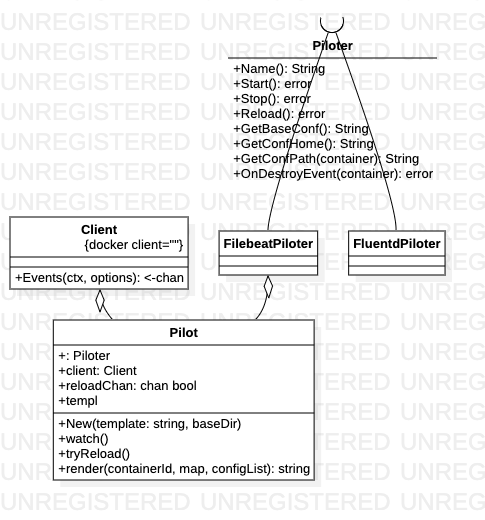
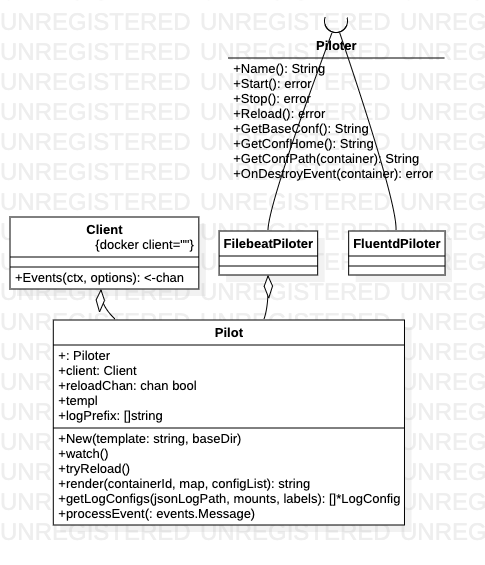
[fix]

Changed region(s): [[0.0, 0.0308, 0.9278, 0.9538]]

diff --git a/_posts/Technology/Container/2019-03-07-container_log_collect.md b/_posts/Technology/Container/2019-03-07-container_log_collect.md
@@ -105,6 +105,11 @@ log-pilot
 
 ![](/public/upload/container/log_pilot_object.png)
 
+pilot 和 piloter 有着明确的分工
+
+1. pilot 负责解析解析、监听容器事件、根据piloter 对应的tpl 文件创建 容器实例对应的yml 文件，start/reload piloter
+2. piloter 相对简单一些，就是根据 配置文件采集 log发往存储后端
+
 启动过程
 
 ![](/public/upload/container/log_pilot_sequence.png)
@@ -136,6 +141,19 @@ func (p *Pilot) watch() error {
 ```
 
 ### 为每一个容器生成filebeat yml文件
+
+Log-Pilot 支持声明式日志配置，可以依据容器的 Label 或者 ENV 来动态地生成日志采集配置文件
+
+1. PILOT_LOG_PREFIX  指定了Label和ENV 集合中 跟 log 相关的前缀。假设 PILOT_LOG_PREFIX=log
+2. 标签 log.$name=$path 
+3. 环境变量 log_$name=$path 
+
+name 和 path的含义
+
+1. name：我们自定义的一个字符串，它在不同的场景下指代不同的含义。当我们将日志采集到 ElasticSearch 的时候， name 表示的是 Index；当我们将日志采集到 Kafka 的时候， name 表示的是 Topic；当我们将日志采集到阿里云日志服务的时候，name 表示的是 LogstoreName。
+2. path：它本身支持两种，
+    1. 一种是约定关键字 stdout，表示的是采集容器的标准输出日志，比如我们要采集 tomcat 容器日志，那么我们通过配置标签 `log.catalina=stdout` 来采集 tomcat 标准输出日志
+    2. 第二种是容器内部的具体文件日志路径，可以支持通配符的方式。通过配置标签 `log.access=/usr/local/tomcat/logs/*.log` 来采集 tomcat 容器内部文件日志。
 
 filebeat.tpl 内容
 
@@ -182,13 +200,13 @@ Pilot.processEvent ==> Pilot.newContainer ==> Pilot.render ==> WriteFile
   fields_under_root: true
   docker-json: true
   fields:
-      app_name: business-vip-present-rpc-service
+      app_name: $APP_NAME
       index: stdout
       topic: stdout
-      docker_container: k8s_business-vip-present-rpc-service_business-business-vip-present-rpc-service-stable-5c65b549bw8558_default_3f53634c-7f34-4148-821b-83b0f4b4d154_0
-      k8s_container_name: business-vip-present-rpc-service
+      docker_container: k8s_$APP_NAME_$POD_NAME_default_3f53634c-7f34-4148-821b-83b0f4b4d154_0
+      k8s_container_name: $APP_NAME
       k8s_node_name: 192.168.60.96
-      k8s_pod: business-business-vip-present-rpc-service-stable-5c65b549bw8558
+      k8s_pod: $POD_NAME
       k8s_pod_namespace: default
   tail_files: false
   close_inactive: 2h
@@ -203,13 +221,13 @@ Pilot.processEvent ==> Pilot.newContainer ==> Pilot.render ==> WriteFile
   scan_frequency: 10s
   fields_under_root: true
   fields:
-      app_name: business-vip-present-rpc-service
+      app_name: $APP_NAME
       index: tomcat
       topic: tomcat
-      docker_container: k8s_business-vip-present-rpc-service_business-business-vip-present-rpc-service-stable-5c65b549bw8558_default_3f53634c-7f34-4148-821b-83b0f4b4d154_0
-      k8s_container_name: business-vip-present-rpc-service
+      docker_container: k8s_$APP_NAME_$POD_NAME_default_3f53634c-7f34-4148-821b-83b0f4b4d154_0
+      k8s_container_name: $APP_NAME
       k8s_node_name: 192.168.60.96
-      k8s_pod: business-business-vip-present-rpc-service-stable-5c65b549bw8558
+      k8s_pod: $POD_NAME
       k8s_pod_namespace: default
 
   tail_files: false

diff --git a/_posts/Technology/Kubernetes/2015-03-12-kubernetes_volume.md b/_posts/Technology/Kubernetes/2015-03-12-kubernetes_volume.md
@@ -133,6 +133,8 @@ spec:
       secretName: secret-config
 ```
 
+[Types of Volumes](https://kubernetes.io/docs/concepts/storage/volumes/#types-of-volumes) 支持十几种类型的Volume
+
 1. Volume 与pod 声明周期相同，不是 Kubernetes 对象，主要用于跨节点或者容器对数据进行同步和共享。 EmptyDir、HostPath、ConfigMap 和 Secret
 2. PersistentVolume，为集群中资源的一种，它与集群中的节点 Node 有些相似，PV 为 Kubernete 集群提供了一个如何提供并且使用存储的抽象，与它一起被引入的另一个对象就是 PersistentVolumeClaim(PVC)，这两个对象之间的关系与Node和 Pod 之间的关系差不多。**PVC 消耗了持久卷资源**，而 Pod 消耗了节点上的 CPU 和内存等物理资源。PS：当 Kubernetes 创建一个节点时，它其实仅仅创建了一个对象来代表这个节点，并基于 metadata.name 字段执行健康检查，对节点进行验证。如果节点可用，意即所有必要服务都已运行，它就符合了运行一个 pod 的条件；否则它将被所有的集群动作忽略直到变为可用。
 
